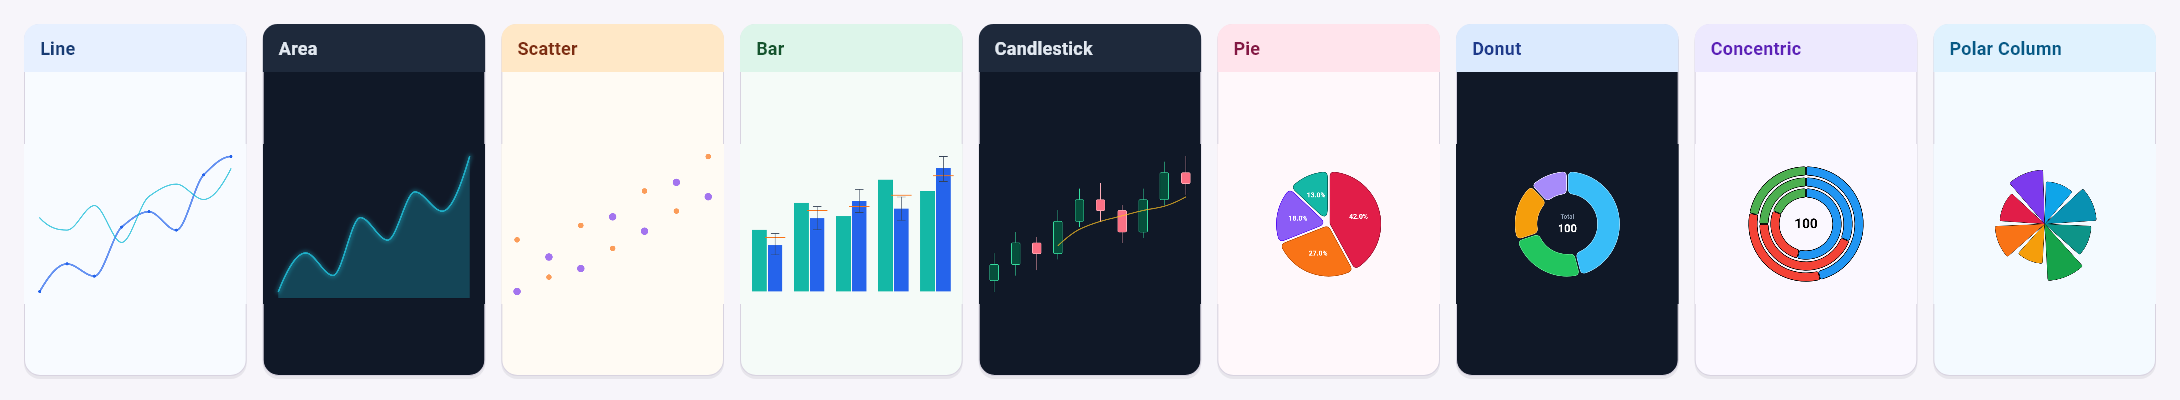
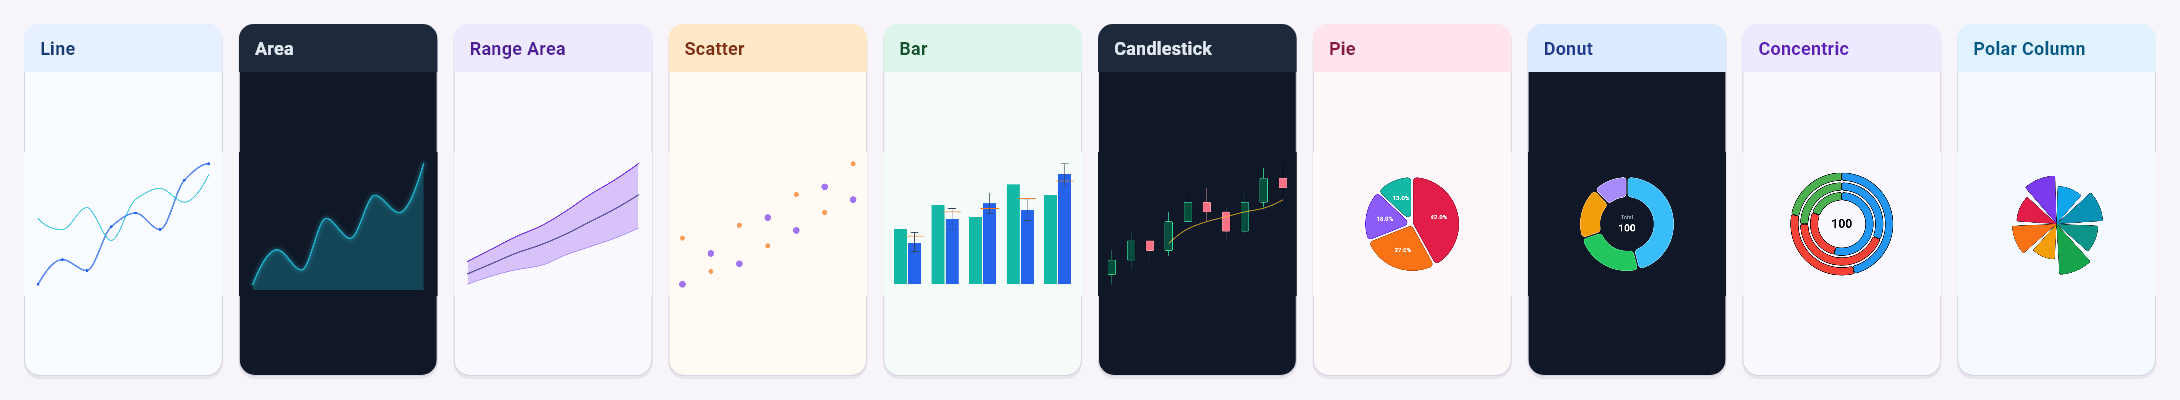
chore(release): prepare 0.11.0

diff --git a/tool/capture_pubdev_static_media_test.dart b/tool/capture_pubdev_static_media_test.dart
@@ -22,6 +22,8 @@ import '../example/lib/showcase/widgets/pie_gallery_cards.dart';
 // ignore: avoid_relative_lib_imports
 import '../example/lib/showcase/widgets/polar_column_gallery_cards.dart';
 // ignore: avoid_relative_lib_imports
+import '../example/lib/showcase/widgets/range_area_gallery_cards.dart';
+// ignore: avoid_relative_lib_imports
 import '../example/lib/showcase/widgets/scatter_gallery_cards.dart';
 // ignore: avoid_relative_lib_imports
 import '../example/lib/showcase/widgets/synchronized_cartesian_gallery_card.dart';
@@ -243,6 +245,34 @@ void main() {
       (
         fileName: 'scatter_equipment_risk.png',
         widget: EquipmentRiskScatterCard(),
+      ),
+    ]) {
+      await _captureInteraction(
+        tester,
+        outputDirectory: outputDirectory,
+        fileName: source.fileName,
+        source: source.widget,
+      );
+    }
+  });
+
+  testWidgets('capture pub.dev Range Area media', (tester) async {
+    await tester.runAsync(_loadCaptureFont);
+    final outputDirectory = Directory(_outputDirectory)
+      ..createSync(recursive: true);
+
+    for (final source in const [
+      (
+        fileName: 'range_area_temperature.png',
+        widget: TemperatureEnvelopeGalleryCard(),
+      ),
+      (
+        fileName: 'range_area_forecast_fan.png',
+        widget: ForecastFanGalleryCard(),
+      ),
+      (
+        fileName: 'range_area_volatility.png',
+        widget: VolatilityEnvelopeGalleryCard(),
       ),
     ]) {
       await _captureInteraction(
@@ -956,6 +986,9 @@ List<_ChartTypeAsset> _chartTypeAssets() {
   final areaTheme = ChartTheme.dark.copyWith(
     backgroundColor: const Color(0xFF101827),
   );
+  final rangeAreaTheme = ChartTheme.light.copyWith(
+    backgroundColor: const Color(0xFFFAF8FF),
+  );
   final scatterTheme = ChartTheme.light.copyWith(
     backgroundColor: const Color(0xFFFFFBF4),
   );
@@ -1091,6 +1124,57 @@ List<_ChartTypeAsset> _chartTypeAssets() {
           strokeWidth: 2.5,
           fillOpacity: 0.24,
           lineGlow: 3,
+        ),
+      ],
+    ),
+    _ChartTypeAsset(
+      label: 'Range Area',
+      fileName: 'chart_type_range_area.png',
+      theme: rangeAreaTheme,
+      headerColor: const Color(0xFFEDE9FE),
+      headerTextColor: const Color(0xFF4C1D95),
+      series: [
+        RangeAreaChartSeries(
+          id: 'range-area',
+          name: 'Forecast interval',
+          color: const Color(0xFF7C3AED),
+          interpolation: LineInterpolation.monotone,
+          fillOpacity: 0.28,
+          upperBoundaryStyle: const RangeAreaBoundaryStyle(
+            color: Color(0xFF6D28D9),
+            strokeWidth: 2,
+          ),
+          lowerBoundaryStyle: const RangeAreaBoundaryStyle(
+            color: Color(0xFFA78BFA),
+            strokeWidth: 1.5,
+          ),
+          points: [
+            RangeAreaDataPoint(x: 0, low: 20, high: 31),
+            RangeAreaDataPoint(x: 1, low: 24, high: 37),
+            RangeAreaDataPoint(x: 2, low: 27, high: 43),
+            RangeAreaDataPoint(x: 3, low: 29, high: 48),
+            RangeAreaDataPoint(x: 4, low: 34, high: 55),
+            RangeAreaDataPoint(x: 5, low: 38, high: 63),
+            RangeAreaDataPoint(x: 6, low: 42, high: 70),
+            RangeAreaDataPoint(x: 7, low: 47, high: 78),
+          ],
+        ),
+        const LineChartSeries(
+          id: 'range-area-median',
+          name: 'Median',
+          color: Color(0xFF312E81),
+          interpolation: LineInterpolation.monotone,
+          strokeWidth: 2.4,
+          points: [
+            ChartDataPoint(x: 0, y: 25),
+            ChartDataPoint(x: 1, y: 30),
+            ChartDataPoint(x: 2, y: 35),
+            ChartDataPoint(x: 3, y: 39),
+            ChartDataPoint(x: 4, y: 44),
+            ChartDataPoint(x: 5, y: 50),
+            ChartDataPoint(x: 6, y: 56),
+            ChartDataPoint(x: 7, y: 63),
+          ],
         ),
       ],
     ),

diff --git a/tool/capture_showcase_media.py b/tool/capture_showcase_media.py
@@ -573,6 +573,8 @@ def _native_stills(output_dir: Path, group: str | None = None) -> None:
         command.extend(["--plain-name", "capture pub.dev Bar media"])
     elif group == "scatter":
         command.extend(["--plain-name", "capture pub.dev Scatter media"])
+    elif group == "range-area":
+        command.extend(["--plain-name", "capture pub.dev Range Area media"])
     elif group == "synchronized":
         command.extend(
             ["--plain-name", "capture pub.dev synchronized Cartesian composition"]
@@ -992,6 +994,7 @@ def main() -> None:
             "pie",
             "bar",
             "scatter",
+            "range-area",
             "synchronized",
             "interaction-still",
             "type-strip",
@@ -1015,6 +1018,9 @@ def main() -> None:
         return
     if args.capture == "scatter":
         _native_stills(args.output_dir, "scatter")
+        return
+    if args.capture == "range-area":
+        _native_stills(args.output_dir, "range-area")
         return
     if args.capture == "synchronized":
         _native_stills(args.output_dir, "synchronized")

diff --git a/README.md b/README.md
@@ -51,7 +51,7 @@ streaming path so each sample does not require a widget-tree rebuild.
 [open the Candlestick guide](https://braven-pvm.github.io/braven_charts/?page=candlestick-charts),
 [open the Polar Column guide](https://braven-pvm.github.io/braven_charts/?page=polar-column),
 [inspect the value summary](https://braven-pvm.github.io/braven_charts/?page=value-summary),
-or review the [0.10.0 changelog](https://github.com/braven-pvm/braven_charts/blob/master/CHANGELOG.md#0100---2026-07-21)
+or review the [0.11.0 changelog](https://github.com/braven-pvm/braven_charts/blob/master/CHANGELOG.md#0110---2026-07-21)
 for the complete API-level release notes.
 
 ## Rendered examples
@@ -62,13 +62,15 @@ package rather than treating a single composition as representative.
 
 ### Chart types
 
-| Line | Area | Bar |
+| Line | Area | Range Area |
 | --- | --- | --- |
-| [![Line chart family](https://raw.githubusercontent.com/braven-pvm/braven_charts/master/doc/screenshots/chart_type_line.png)](https://braven-pvm.github.io/braven_charts/?page=line-charts) | [![Area chart family](https://raw.githubusercontent.com/braven-pvm/braven_charts/master/doc/screenshots/chart_type_area.png)](https://braven-pvm.github.io/braven_charts/?page=area-charts) | [![Bar chart family](https://raw.githubusercontent.com/braven-pvm/braven_charts/master/doc/screenshots/chart_type_bar.png)](https://braven-pvm.github.io/braven_charts/?page=bar-charts) |
-| **Scatter** | **Candlestick** | **Polar Column / Rose** |
-| [![Scatter chart family](https://raw.githubusercontent.com/braven-pvm/braven_charts/master/doc/screenshots/chart_type_scatter.png)](https://braven-pvm.github.io/braven_charts/?page=scatter-charts) | [![Candlestick chart family](https://raw.githubusercontent.com/braven-pvm/braven_charts/master/doc/screenshots/chart_type_candlestick.png)](https://braven-pvm.github.io/braven_charts/?page=candlestick-charts) | [![Polar Column and Rose chart family](https://raw.githubusercontent.com/braven-pvm/braven_charts/master/doc/screenshots/chart_type_polar_column.png)](https://braven-pvm.github.io/braven_charts/?page=polar-column) |
+| [![Line chart family](https://raw.githubusercontent.com/braven-pvm/braven_charts/master/doc/screenshots/chart_type_line.png)](https://braven-pvm.github.io/braven_charts/?page=line-charts) | [![Area chart family](https://raw.githubusercontent.com/braven-pvm/braven_charts/master/doc/screenshots/chart_type_area.png)](https://braven-pvm.github.io/braven_charts/?page=area-charts) | [![Range Area chart family](https://raw.githubusercontent.com/braven-pvm/braven_charts/master/doc/screenshots/chart_type_range_area.png)](https://braven-pvm.github.io/braven_charts/?page=range-area-charts) |
+| **Bar** | **Scatter** | **Candlestick** |
+| [![Bar chart family](https://raw.githubusercontent.com/braven-pvm/braven_charts/master/doc/screenshots/chart_type_bar.png)](https://braven-pvm.github.io/braven_charts/?page=bar-charts) | [![Scatter chart family](https://raw.githubusercontent.com/braven-pvm/braven_charts/master/doc/screenshots/chart_type_scatter.png)](https://braven-pvm.github.io/braven_charts/?page=scatter-charts) | [![Candlestick chart family](https://raw.githubusercontent.com/braven-pvm/braven_charts/master/doc/screenshots/chart_type_candlestick.png)](https://braven-pvm.github.io/braven_charts/?page=candlestick-charts) |
 | **Pie** | **Donut** | **Concentric Donut** |
 | [![Pie chart family](https://raw.githubusercontent.com/braven-pvm/braven_charts/master/doc/screenshots/chart_type_pie.png)](https://braven-pvm.github.io/braven_charts/?page=pie-charts) | [![Donut chart family](https://raw.githubusercontent.com/braven-pvm/braven_charts/master/doc/screenshots/chart_type_donut.png)](https://braven-pvm.github.io/braven_charts/?page=donut-charts) | [![Concentric Donut chart family](https://raw.githubusercontent.com/braven-pvm/braven_charts/master/doc/screenshots/chart_type_concentric.png)](https://braven-pvm.github.io/braven_charts/?page=concentric-donut) |
+| **Polar Column / Rose** |  |  |
+| [![Polar Column and Rose chart family](https://raw.githubusercontent.com/braven-pvm/braven_charts/master/doc/screenshots/chart_type_polar_column.png)](https://braven-pvm.github.io/braven_charts/?page=polar-column) |  |  |
 
 ### Range Area compositions
 
@@ -78,6 +80,10 @@ Range Area preserves one paired low/high interval at each X position. Use the
 and [Gaps & steps](https://braven-pvm.github.io/braven_charts/?page=range-area-charts&preset=gapsAndSteps)
 presets to compare range-only, Range Area plus Line, nested bands, typed
 tracking, explicit gaps, styling, motion, and Chart/Data/Split/Source behavior.
+
+| Temperature envelope | Nested forecast fan | Volatility envelope |
+| --- | --- | --- |
+| [![Daily temperature Range Area with observed mean and typed low/high tracking](https://raw.githubusercontent.com/braven-pvm/braven_charts/master/doc/screenshots/range_area_temperature.png)](https://braven-pvm.github.io/braven_charts/?page=range-area-charts&preset=temperature) | [![Nested 80% and 50% demand forecast intervals with a median line](https://raw.githubusercontent.com/braven-pvm/braven_charts/master/doc/screenshots/range_area_forecast_fan.png)](https://braven-pvm.github.io/braven_charts/?page=range-area-charts&preset=forecastFan) | [![Dark rolling volatility Range Area combined with a tracked close line](https://raw.githubusercontent.com/braven-pvm/braven_charts/master/doc/screenshots/range_area_volatility.png)](https://braven-pvm.github.io/braven_charts/?page=technical-indicators) |
 
 ### Concentric Donut compositions
 
@@ -234,7 +240,7 @@ Add the package to your app:
 
 ```yaml
 dependencies:
-  braven_charts: ^0.10.0
+  braven_charts: ^0.11.0
 ```
 
 Then fetch dependencies:
@@ -243,7 +249,7 @@ Then fetch dependencies:
 flutter pub get
 ```
 
-Braven Charts 0.10.0 requires Dart 3.9 or later and Flutter 3.35 or later.
+Braven Charts 0.11.0 requires Dart 3.9 or later and Flutter 3.35 or later.
 
 ## Quick start
 

diff --git a/docs/agent_onboarding.md b/docs/agent_onboarding.md
@@ -40,9 +40,11 @@ shared implementation contract.
 
 **Key capabilities:**
 
-- Line, area, bar, scatter, Pie, and Donut charts; Cartesian lines and areas
-  support bezier/monotone/stepped interpolation, while radial category charts
-  support variable radii, partial sweeps, labels, and portable selection
+- Line, area, Range Area, bar, scatter, Candlestick, Pie, Donut, Concentric
+  Donut, and Polar Column/Rose charts. Cartesian lines, areas, and paired
+  low/high intervals support Bezier/monotone/stepped interpolation, while
+  radial families support variable radii, partial sweeps, labels, axes, and
+  portable selection.
 - Multi-axis support with independent Y-axis scales and per-series normalization
 - Interactive annotations: point, range, text, threshold, trend, pin, legend
 - Crosshair with standard and tracking modes, per-axis labels

diff --git a/CHANGELOG.md b/CHANGELOG.md
@@ -5,7 +5,7 @@ All notable changes to the braven_charts package will be documented in this file
 The format is based on [Keep a Changelog](https://keepachangelog.com/en/1.0.0/),
 and this project adheres to [Semantic Versioning](https://semver.org/spec/v2.0.0.html).
 
-## Unreleased
+## 0.11.0 - 2026-07-21
 
 ### Added
 - First-class Range Area charts through `RangeAreaDataPoint` and
@@ -21,6 +21,8 @@ and this project adheres to [Semantic Versioning](https://semver.org/spec/v2.0.0
   catalog and Gallery, including a native interval preview, weather envelope,
   nested forecast fan, financial volatility composition, dedicated route, and
   property-testing Workbench.
+- Native pub.dev captures for the temperature envelope, nested forecast fan,
+  and volatility envelope, plus a regenerated ten-family chart-type strip.
 
 ## 0.10.0 - 2026-07-21
 

diff --git a/doc/release_checklist.md b/doc/release_checklist.md
@@ -76,8 +76,9 @@ Capture browser media from a local release build with `--url
 http://127.0.0.1:<port>/` before the public site has the change.
 
 `--capture pie`, `--capture donut`, `--capture bar`, `--capture scatter`,
-`--capture synchronized`, `--capture polar`, `--capture hero`, and `--capture
-interaction-still`, plus the release-specific `--capture cartesian-0.10`, do
+`--capture range-area`, `--capture synchronized`, `--capture polar`,
+`--capture hero`, and `--capture interaction-still`, plus the release-specific
+`--capture cartesian-0.10`, do
 not take browser screenshots. They mount the same Gallery
 configurations in Flutter's deterministic test renderer, call the native
 preview API for individual charts, load Flutter's bundled Roboto font, and
